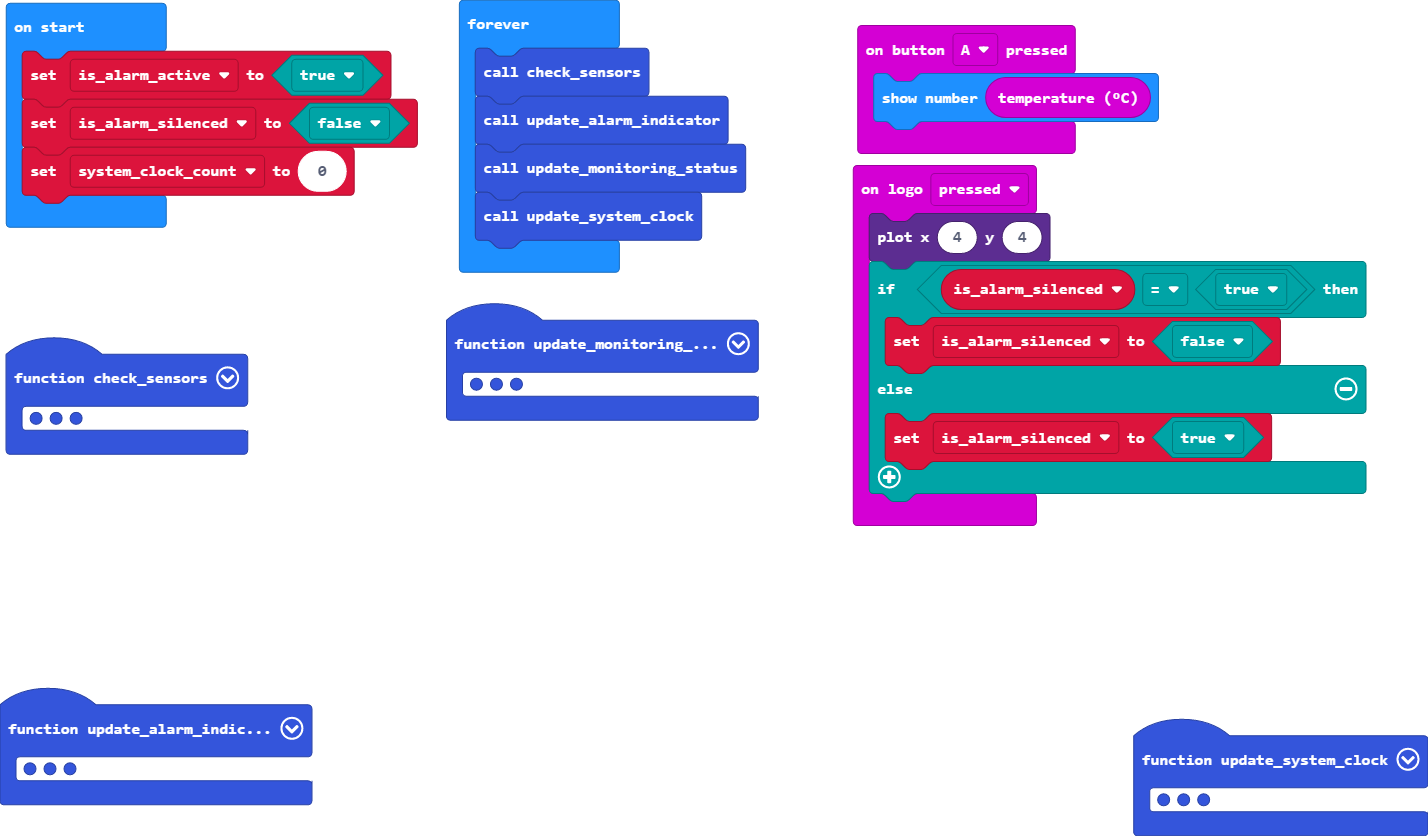
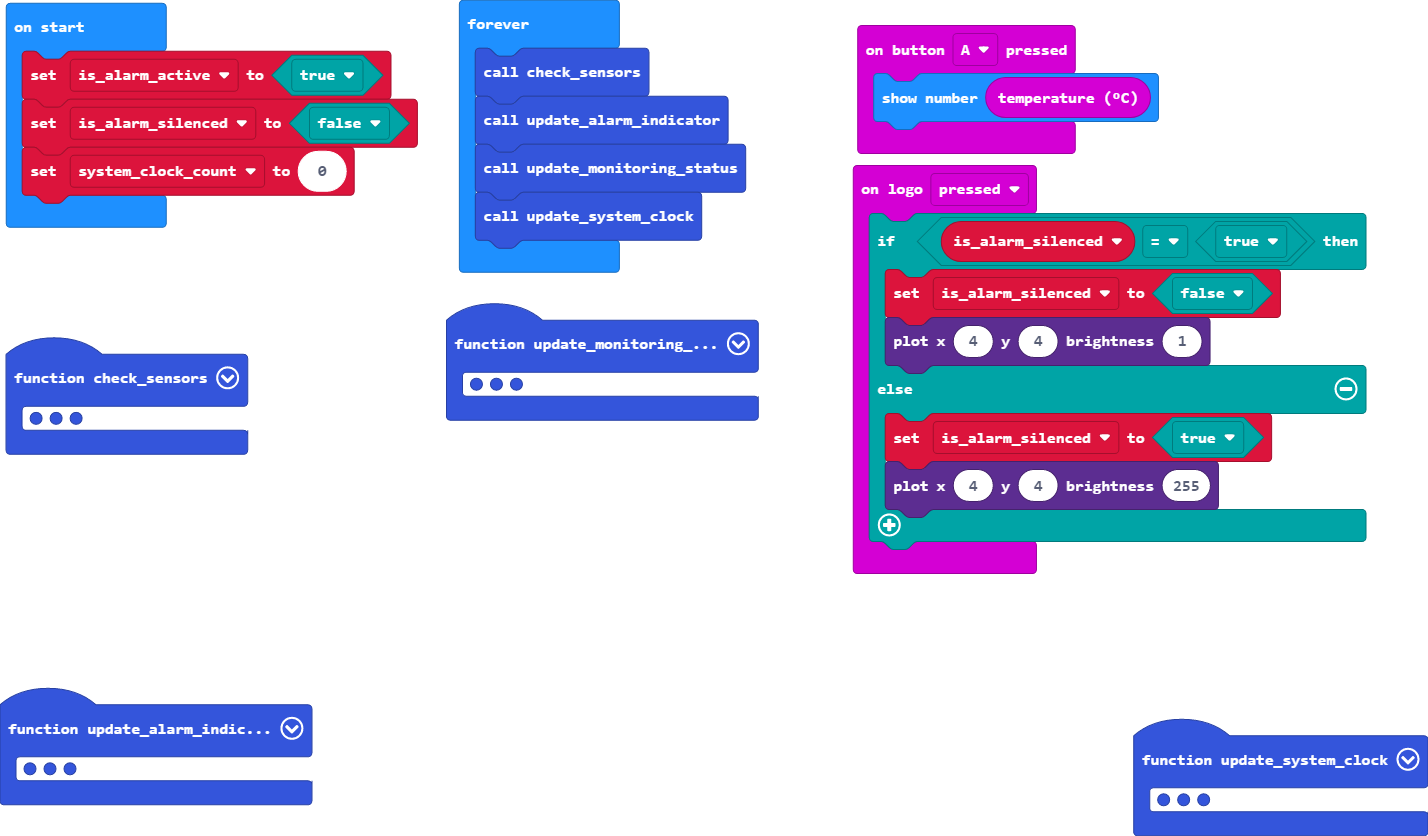
Update main.blocks, main.ts

Changed region(s): [[0.5854, 0.2488, 0.9552, 0.4665], [0.5854, 0.5287, 0.9552, 0.6842]]

diff --git a/main.ts b/main.ts
@@ -47,11 +47,12 @@ function check_sensors () {
     }
 }
 input.onLogoEvent(TouchButtonEvent.Pressed, function () {
-    led.plot(4, 4)
     if (is_alarm_silenced == true) {
         is_alarm_silenced = false
+        led.plotBrightness(4, 4, 1)
     } else {
         is_alarm_silenced = true
+        led.plotBrightness(4, 4, 255)
     }
 })
 let system_clock_count = 0
